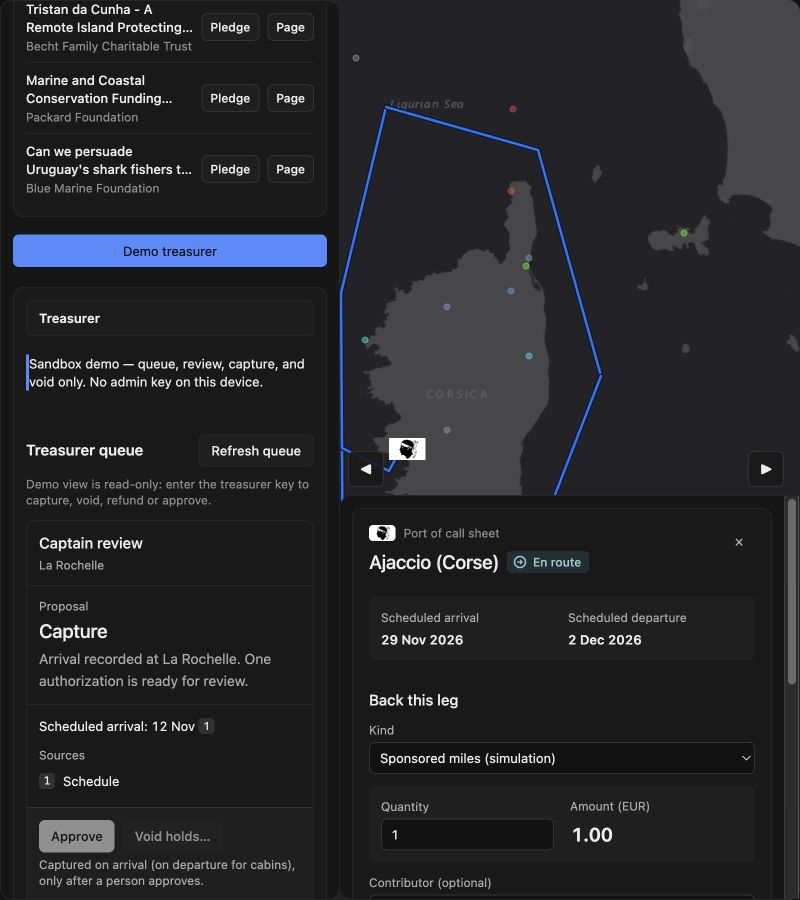
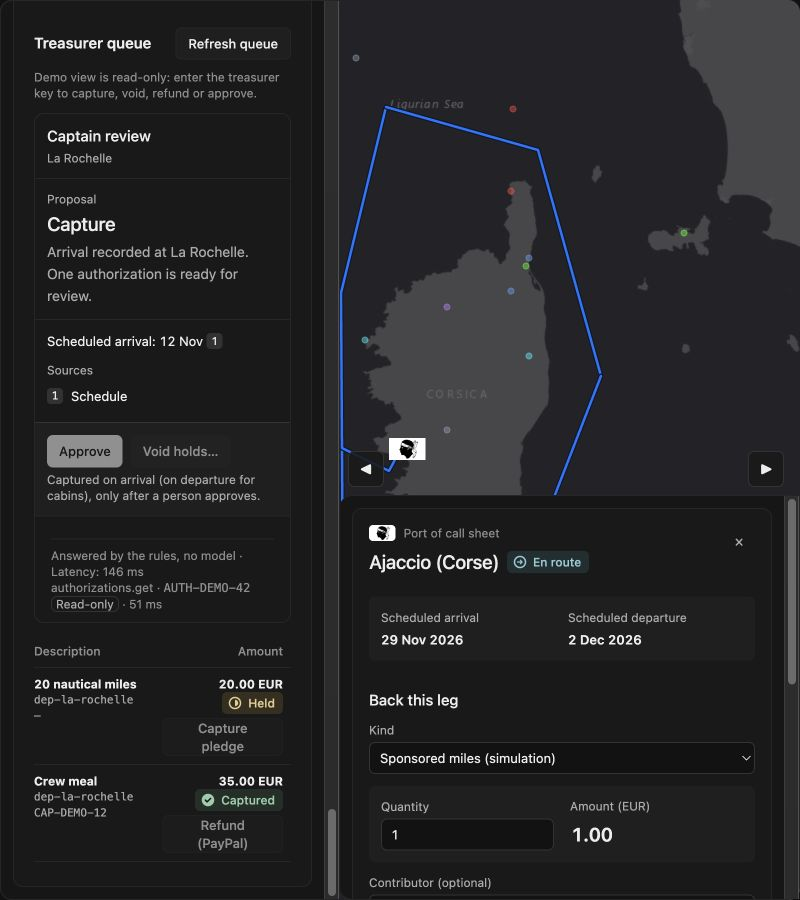
fix(ui): fit treasurer queue and clarify Captain copy

diff --git a/bi-escales/frontend/src/components/EscalesPanel.test.tsx b/bi-escales/frontend/src/components/EscalesPanel.test.tsx
@@ -19,8 +19,8 @@ describe("EscalesPanel cart", () => {
   });
 
   it.each([
-    ["fr", "20 milles près de Mayotte", "Demander une formulation"],
-    ["en", "Sponsor 20 miles near Mayotte", "Ask for wording"],
+    ["fr", "20 milles près de Mayotte", "Demander au capitaine"],
+    ["en", "Sponsor 20 miles near Mayotte", "Ask the Captain"],
   ])("starts empty with a localized placeholder in %s and refuses blank submissions", async (lang, placeholder, action) => {
     await i18n.changeLanguage(lang);
     render(
@@ -81,7 +81,7 @@ describe("EscalesPanel cart", () => {
       </I18nextProvider>,
     );
     fireEvent.change(screen.getByRole("textbox"), { target: { value: "20 milles près de Mayotte" } });
-    fireEvent.click(screen.getByRole("button", { name: "Demander une formulation" }));
+    fireEvent.click(screen.getByRole("button", { name: "Demander au capitaine" }));
     expect(captainChat).toHaveBeenCalledWith("20 milles près de Mayotte", "fr", undefined);
     const line = await screen.findByTestId("cart-line");
     expect(line).toHaveTextContent("20 milles parrainés — 20.00 EUR");
@@ -107,7 +107,7 @@ describe("EscalesPanel cart", () => {
       </I18nextProvider>,
     );
     fireEvent.change(screen.getByRole("textbox"), { target: { value: "20 milles près de Mayotte" } });
-    fireEvent.click(screen.getByRole("button", { name: "Demander une formulation" }));
+    fireEvent.click(screen.getByRole("button", { name: "Demander au capitaine" }));
     const line = await screen.findByTestId("captain-paypal-tools");
     expect(line).toHaveTextContent("transactions.search");
     expect(line).toHaveTextContent("paypal-agent-toolkit");
@@ -123,7 +123,7 @@ describe("EscalesPanel cart", () => {
       </I18nextProvider>,
     );
     fireEvent.change(screen.getByRole("textbox"), { target: { value: "20 milles près de Mayotte" } });
-    fireEvent.click(screen.getByRole("button", { name: "Demander une formulation" }));
+    fireEvent.click(screen.getByRole("button", { name: "Demander au capitaine" }));
     expect(await screen.findByText(/Trop de requêtes vers le capitaine/)).toBeInTheDocument();
   });
 });

diff --git a/bi-escales/frontend/src/styles/naviguide-shell.css b/bi-escales/frontend/src/styles/naviguide-shell.css
@@ -679,7 +679,10 @@ body.ng-naviguide-shell {
 @keyframes captain-appear { from { opacity: 0; } to { opacity: 1; } }
 
 /* A two-column ledger fits the working rail. Each amount stays with its decision. */
-.queue-heading { display: flex; align-items: baseline; justify-content: space-between; gap: var(--space-2); }
+.queue-heading { display: flex; flex-wrap: wrap; align-items: baseline; justify-content: space-between; gap: var(--space-2); }
+.queue-heading > * { min-width: 0; max-width: 100%; overflow-wrap: anywhere; }
+.treasurer-queue .queue-heading button { white-space: normal; }
+.treasurer-queue .treasurer-queue-table { overflow: visible; }
 .treasurer-queue .treasurer-queue-table table { width: 100%; table-layout: fixed; }
 .treasurer-queue-table th:last-child { text-align: end; }
 .treasurer-queue-table td { overflow-wrap: anywhere; }
@@ -689,6 +692,6 @@ body.ng-naviguide-shell {
 .queue-value > button { display: block; margin-inline: auto 0; max-width: 100%; white-space: normal; }
 .treasurer-queue .captain-decision { background: var(--color-raised); border-block-start: 1px solid var(--color-line-strong); }
 .captain-chat .captain-draft { gap: var(--space-1); color: var(--color-fg-2); font-size: var(--text-meta); }
-.ng-sidebar .treasurer-panel .treasurer-queue { padding-inline: 0; border: 0; background: transparent; }
+.ng-sidebar .treasurer-panel .treasurer-queue { box-sizing: border-box; min-width: 0; max-width: 100%; padding-inline: var(--space-2); border: 0; background: transparent; }
 .treasurer-queue .captain-section, .treasurer-queue .captain-card-head { padding: var(--space-3); gap: var(--space-1); }
 .treasurer-queue .captain-card { background: var(--color-panel); }

diff --git a/bi-escales/frontend/src/components/captain/CaptainReviewCard.tsx b/bi-escales/frontend/src/components/captain/CaptainReviewCard.tsx
@@ -108,6 +108,9 @@ export function CaptainReviewCard({
   const report = review?.report || review?.justification;
   const advisory = review?.llm_proposal?.reason;
 
+  const captureRule = t("captainCard.rule");
+  const showCaptureRule = holds.length > 0 && !report?.includes(captureRule) && !advisory?.includes(captureRule);
+
   // Failed voids stay in the queue, so the live holds are always what a retry would release.
   const showChoice = !phase || phase === "cancelled" || (phase === "done" && holds.length > 0);
   const counting = phase === "counting";
@@ -286,7 +289,7 @@ export function CaptainReviewCard({
           </div>
         ) : null}
 
-        {holds.length ? <p className="captain-meta">{t("captainCard.rule")}</p> : null}
+        {showCaptureRule ? <p className="captain-meta">{captureRule}</p> : null}
       </section>
 
       {review ? (

diff --git a/bi-escales/frontend/src/components/captain/CaptainReviewCard.test.tsx b/bi-escales/frontend/src/components/captain/CaptainReviewCard.test.tsx
@@ -201,6 +201,12 @@ describe("Captain review card", () => {
       expect(screen.getByTestId(`captain-override-${STOP}`)).not.toBeDisabled();
     });
 
+    it("shows the rule once when the report already explains capture", async () => {
+      vi.mocked(captainReview).mockResolvedValue({ ...review, report: `Arrival verified. ${en.captainCard.rule}` });
+      await openCard();
+      expect(card().getAllByText(en.captainCard.rule, { exact: false })).toHaveLength(1);
+    });
+
     it("states the capture rule in the agreed words, in both languages", async () => {
       await openCard();
       expect(card().getByText("Captured on arrival (on departure for cabins), only after a person approves.")).toBeInTheDocument();

diff --git a/bi-escales/frontend/src/components/EscaleSheet.stopPanel.test.jsx b/bi-escales/frontend/src/components/EscaleSheet.stopPanel.test.jsx
@@ -279,7 +279,7 @@ describe("stop panel", () => {
       expect(block.getByTestId("pledge-amount")).toBeInTheDocument();
       expect(block.getByTestId("pledge-values")).toBeInTheDocument();
       expect(block.getByTestId("stop-money-rule").textContent).toBe(
-        "Held by PayPal, not charged. Captured on arrival (on departure for cabins), only after a person approves. Released if we don't sail.",
+        "Held by PayPal, not charged. The treasurer can approve capture once the boat arrives at this stop. Released if we don't sail.",
       );
     });
 

diff --git a/bi-escales/frontend/src/components/EscaleSheet.jsx b/bi-escales/frontend/src/components/EscaleSheet.jsx
@@ -244,7 +244,7 @@ export const EscaleSheet = memo(function EscaleSheet({
           ) : (
             <ol className="money-steps" data-testid="stop-money-rule">
               <li>{t("stopPanel.ruleHeld")} </li>
-              <li>{t("stopPanel.ruleCaptured")} </li>
+              <li>{t(pledge.kind === "cabin_leg" ? "stopPanel.ruleCabin" : "stopPanel.ruleCaptured")} </li>
               <li>{t("stopPanel.ruleReleased")}</li>
             </ol>
           )}
